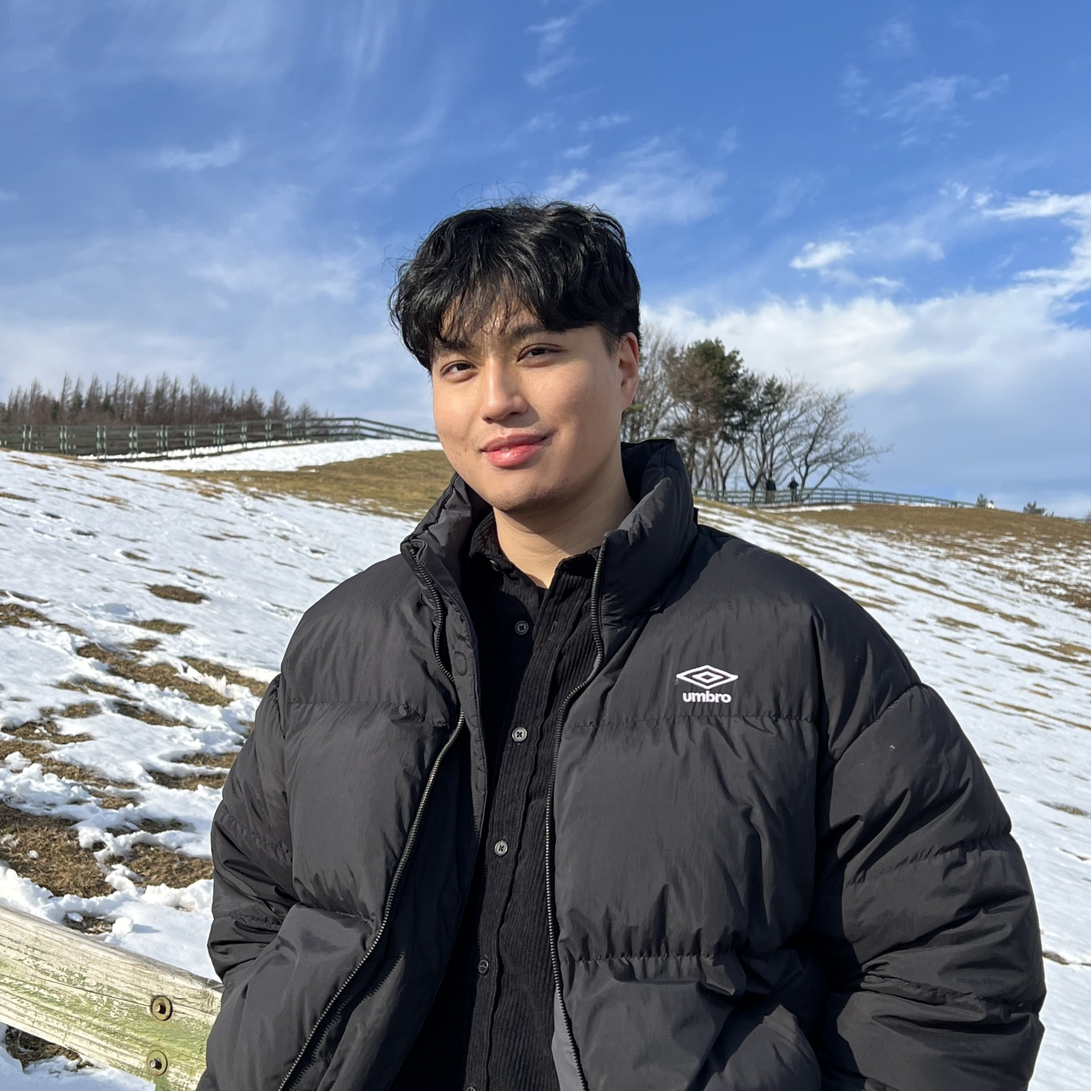
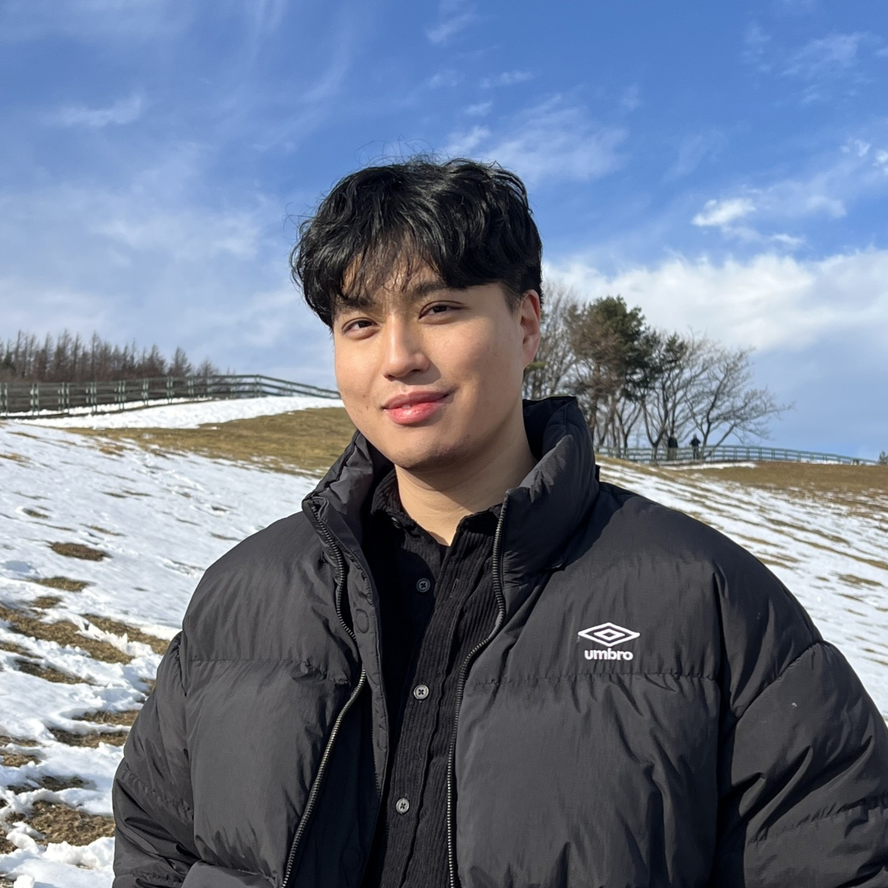
added

diff --git a/index.html b/index.html
@@ -54,8 +54,9 @@
                 </td>
                 <!--                <td style="padding:2.5%;width:40%;max-width:40%">  -->
                 <td style="padding:2.5%;width:25%;max-width:25%;text-align:center">
-                  <img itemprop="image" style="width:100%;max-width:100%;object-fit: cover;border-radius:50%" alt="profile photo" src="image/1_crop_2.JPG" class="hoverZoomLink">
-                </td>
+                  <!--<img itemprop="image" style="width:100%;max-width:100%;object-fit: cover;border-radius:50%" alt="profile photo" src="image/1_crop.JPG" class="hoverZoomLink"> -->
+                  <img itemprop="image" style="width:100%;max-width:100%;object-fit: cover;border-radius:50%" alt="profile photo" src="image/2_crop.jpg" class="hoverZoomLink">
+				</td>
               </tr>
             </tbody>
           </table>
